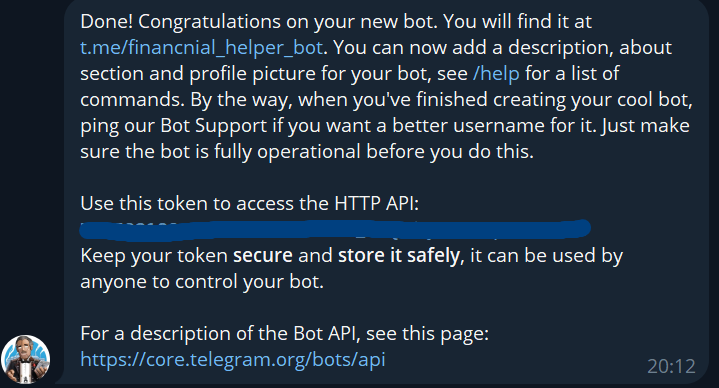
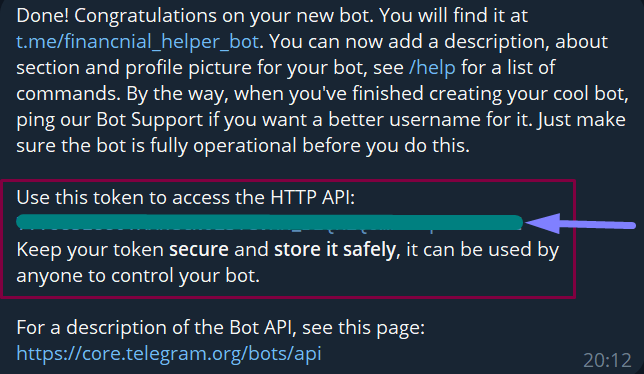
Updated img.png and README.md

Changed region(s): [[0.0, 0.4706, 0.9938, 1.0], [0.0, 0.0, 0.9938, 0.4118], [0.9006, 0.9118, 0.9938, 1.0]]

diff --git a/README.md b/README.md
@@ -1,8 +1,29 @@
+# First steps
+## Installing python
+> [!NOTE]
+> You better use virtual env for that. Follow this guide on official website: https://docs.python.org/3/library/venv.html
+
+Bot was written on Python 3.13, but I think it would perfectly run on all versions above 3.10.0.
+Install it [here.](https://python.org)
+
+## Bot setup
+You want to find bot named [@BotFather](https://t.me/BotFather) in telegram.
+Then follow instructions and you should get your bot **token**.
+
+<img alt="img.png" height="" src="img.png" width="719"/>
+
+Now you can edit your bot there!
+# Installing
+Then you can freely install entire repository, or clone it with git:
+```bash
+git clone https://github.com/keeper9922/FinancialSupervisorTGBOT.git
+cd FinancialSupervisorTGBOT
+```
 To install all modules, that used in the project, you want to run:
 `pip install -r requirements.txt` in terminal.
 ## How to configure bot?
-It is very easy. You want to edit `.env` file. It's insides should look like this:
-```
+It is very easy. You want to edit `.env` file (or you can create one). It's insides should look like this:
+```env
 TOKEN=your_token
 DATABASE=data.db
 LANGUAGE=EN
